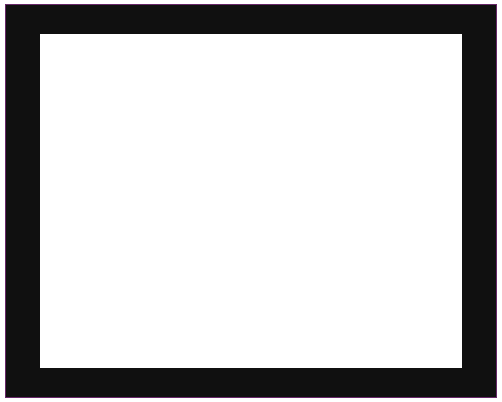
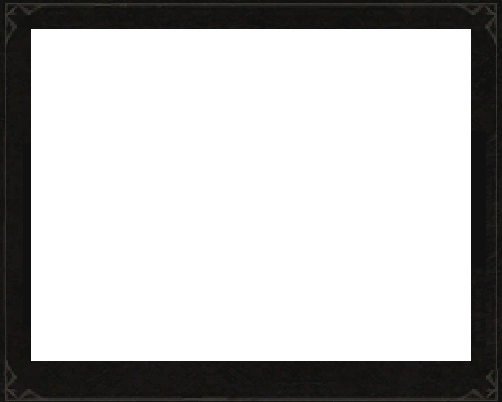
ok

Changed region(s): [[0.0, 0.0, 1.0, 1.0]]

diff --git a/ground.js b/ground.js
@@ -73,10 +73,10 @@
 
     .additional-skill-panel {background: url(https://raw.githubusercontent.com/t1907/margonemNI/refs/heads/main/ground/skill_hot_skills.png)}
 
-    .battle-controller .graphics .battle-border {border-image: url("https://raw.githubusercontent.com/t1907/margonemNI/refs/heads/main/ground/frame.png") 32 20 fill repeat; background-size: 100% 100%;}
+    .battle-controller .graphics .battle-border {border-image: url("https://raw.githubusercontent.com/t1907/margonemNI/refs/heads/main/ground/window-frame.png") 32 20 fill repeat; background-size: 100% 100%;}
 
     .additional-skill-panel {background: url(https://raw.githubusercontent.com/t1907/margonemNI/refs/heads/main/ground/skill_hot_skills.png)}
-    .additional-skill-panel .graphics .additional-skill-panel-border {border-image: url("https://raw.githubusercontent.com/t1907/margonemNI/refs/heads/main/ground/frame.png")  32 20 fill repeat; background-size: 100% 100%;}
+    .additional-skill-panel .graphics .additional-skill-panel-border {border-image: url("https://raw.githubusercontent.com/t1907/margonemNI/refs/heads/main/ground/window-frame.png")  32 20 fill repeat; background-size: 100% 100%;}
     .skills-window .right-column .scroll-wrapper .scroll-pane .empty, .skills-window .right-column .scroll-wrapper .scroll-pane .description-wrapper .skill-description .board-wrapper .requirements-wrapper{color: #f5f5f5;}
 
     .interface-element-grid-border {outline: 1px solid #101010; box-shadow: 0 0 0 1px #404040;}
@@ -150,7 +150,7 @@
     .border-window {color: #f5f5f5;}
     .border-window .content {background: #101010;}
 
-    .border-window, .interface-element-border-window-frame {border-image: url(https://raw.githubusercontent.com/t1907/margonemNI/refs/heads/main/ground/frame.png) 32 20 fill repeat;}
+    .border-window, .interface-element-border-window-frame {border-image: url(https://raw.githubusercontent.com/t1907/margonemNI/refs/heads/main/ground/window-frame.png) 32 20 fill repeat;}
 
     .border-window .header-label-positioner .header-label .left-decor, .border-window .header-label-positioner .header-label .right-decor {background: 0 0;}
 
